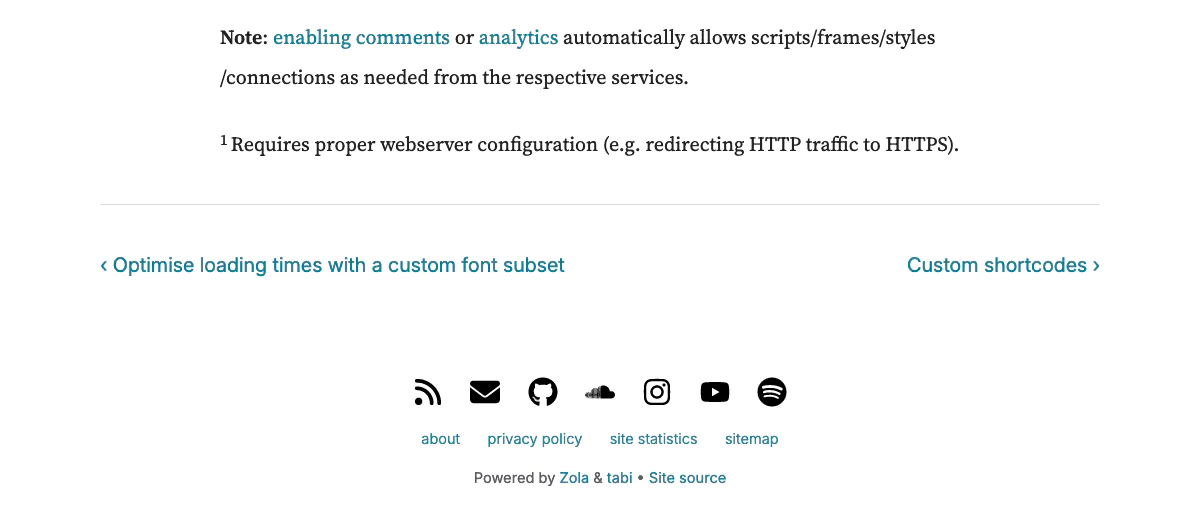
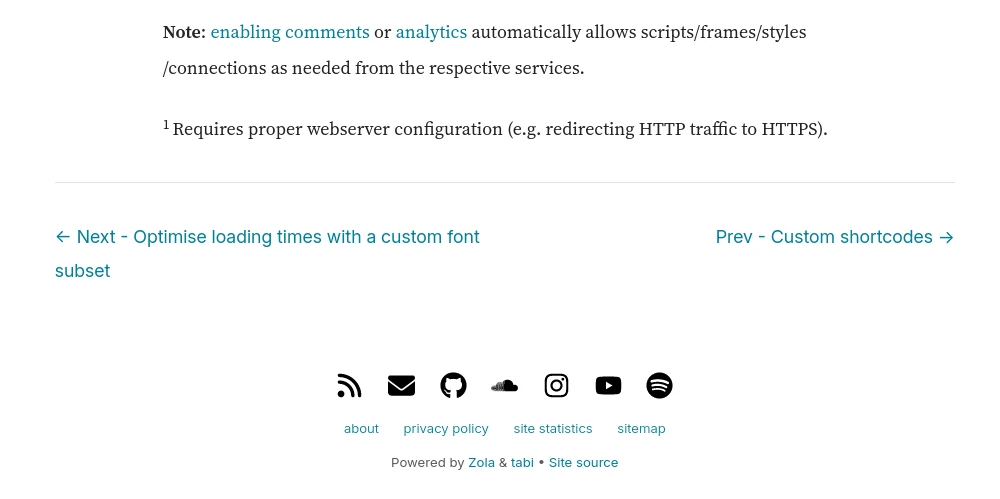
✨ feat: allow inverting previous/next article links (#261)
- Adds next/previous labels for clarity
- Truncated long titles get "…" appended

diff --git a/templates/page.html b/templates/page.html
@@ -23,6 +23,7 @@
     "show_remote_changes",
     "toc",
     "show_previous_next_article_links",
+    "invert_previous_next_article_links",
     "previous_next_article_links_full_width",
 ] %}
 
@@ -133,18 +134,45 @@
 
         {% if macros_settings::evaluate_setting_priority(setting="show_previous_next_article_links", page=page, default_global_value=true) == "true" %}
             {%- if page.lower or page.higher -%}
+                {% set next_label = macros_translate::translate(key="next", default="Next", language_strings=language_strings) %}
+                {% set prev_label = macros_translate::translate(key="prev", default="Prev", language_strings=language_strings) %}
+                {% if macros_settings::evaluate_setting_priority(setting="invert_previous_next_article_links", page=page, default_global_value=true) == "true" %}
+                    {% if page.higher %}
+                        {% set left_link = page.higher.permalink %}
+                        {% set left_label = prev_label %}
+                        {% set left_title = page.higher.title %}
+                    {% endif %}
+                    {% if page.lower %}
+                        {% set right_link = page.lower.permalink %}
+                        {% set right_label = next_label %}
+                        {% set right_title = page.lower.title %}
+                    {% endif %}
+                {% else %}
+                    {% if page.lower %}
+                        {% set left_link = page.lower.permalink %}
+                        {% set left_label = next_label %}
+                        {% set left_title = page.lower.title %}
+                    {% endif %}
+                    {% if page.higher %}
+                        {% set right_link = page.higher.permalink %}
+                        {% set right_label = prev_label %}
+                        {% set right_title = page.higher.title %}
+                    {% endif %}
+                {% endif %}
                 {% if macros_settings::evaluate_setting_priority(setting="previous_next_article_links_full_width", page=page, default_global_value=true) == "true" %}
                     {%- set full_width_class = "full-width" -%}
                 {% endif %}
             <nav class="{{ full_width_class | default(value="") }} article-navigation">
                 <div>
-                {%- if page.lower -%}
-                <a href="{{ page.lower.permalink | safe }}">&#8249; {{ page.lower.title | truncate(length=100) }}</a>
+                {%- if left_link and left_label and left_title -%}
+                <a href="{{ left_link | safe }}" aria-label="{{ left_label }}" aria-describedby="left_title">← {{ left_label }}</a>
+                <p aria-hidden="true" id="left_title">{{ left_title | truncate(length=100, end="…") }}</p>
                 {%- endif -%}
                 </div>
                 <div>
-                {%- if page.higher -%}
-                <a href="{{ page.higher.permalink | safe }}"> {{ page.higher.title | truncate(length=100) }} &#8250;</a>
+                {%- if right_link and right_label and right_title -%}
+                <a href="{{ right_link | safe }}" aria-label="{{ right_label }}" aria-describedby="right_title">{{ right_label }} →</a>
+                <p aria-hidden="true" id="right_title">{{ right_title | truncate(length=100, end="…") }}</p>
                 {%- endif -%}
                 </div>
             </nav>

diff --git a/sass/parts/_misc.scss b/sass/parts/_misc.scss
@@ -196,6 +196,14 @@ details summary {
         text-align: right;
     }
 
+    div p {
+        color: var(--meta-color);
+        font-weight: 300;
+        line-height: 1.2rem;
+        font-family: var(--sans-serif-font);
+        letter-spacing: -0.4px;
+    }
+
     @media (max-width: 600px) {
         flex-direction: column;
 

diff --git a/content/blog/mastering-tabi-settings/index.md b/content/blog/mastering-tabi-settings/index.md
@@ -477,9 +477,13 @@ Displays links to the previous and next articles at the bottom of posts. It look
 
 To activate this feature, set `show_previous_next_article_links = true`.
 
-By default, this navigation section will have the full width of the site (same as the navigation bar at the top). To make it narrower, matching the article width, set `previous_next_article_links_full_width = false`.
+By default, next articles will be on the left side of the page and previous articles will be on the right side.
+To reverse the order (next articles on the right and previous articles on the left), set `invert_previous_next_article_links = true`.
 
-This setting also follows the hierarchy.
+By default, this navigation section will have the full width of the site (same as the navigation bar at the top).
+To make it narrower, matching the article width, set `previous_next_article_links_full_width = false`.
+
+All of these settings follow the hierarchy.
 
 ### Footnote Backlinks
 

diff --git a/content/blog/mastering-tabi-settings/index.es.md b/content/blog/mastering-tabi-settings/index.es.md
@@ -475,9 +475,12 @@ Muestra enlaces a los artículos anterior y siguiente en la parte inferior de lo
 
 Para activar esta función, configura `show_previous_next_article_links = true`.
 
+Por defecto, los artículos siguientes estarán en el lado izquierdo de la página y los artículos anteriores en el lado derecho.
+Para invertir el orden (artículos siguientes en el lado derecho y artículos anteriores en el lado izquierdo), establece `invert_previous_next_article_links = true`.
+
 Por defecto, esta sección de navegación tendrá el ancho completo del sitio (igual que la barra de navegación de la parte superior). Para hacerla más estrecha, coincidiendo con el ancho del artículo, establece `previous_next_article_links_full_width = false`.
 
-Esta opción también sigue la jerarquía.
+Todas estas configuraciones siguen la jerarquía.
 
 ### Enlaces de retorno en notas al pie
 

diff --git a/content/blog/mastering-tabi-settings/index.ca.md b/content/blog/mastering-tabi-settings/index.ca.md
@@ -475,9 +475,12 @@ Mostra enllaços als articles anterior i següent a la part inferior dels posts.
 
 Per activar aquesta funció, estableix `show_previous_next_article_links = true`.
 
+Per defecte, els articles següents estaran al costat esquerre de la pàgina i els articles anteriors al costat dret.
+Per invertir l'ordre (articles següents al costat dret i articles anteriors al costat esquerre), configura `invert_previous_next_article_links = true`.
+
 Per defecte, aquesta secció de navegació tindrà l'amplada completa del lloc (igual que la barra de navegació de la part superior). Per fer-la més estreta, coincidint amb l'amplada de l'article, configura `previous_next_article_links_full_width = false`.
 
-Aquesta configuració també segueix la jerarquia.
+Totes aquestes configuracions segueixen la jerarquia.
 
 ### Enllaços de retorn a les notes a peu de pàgina
 
